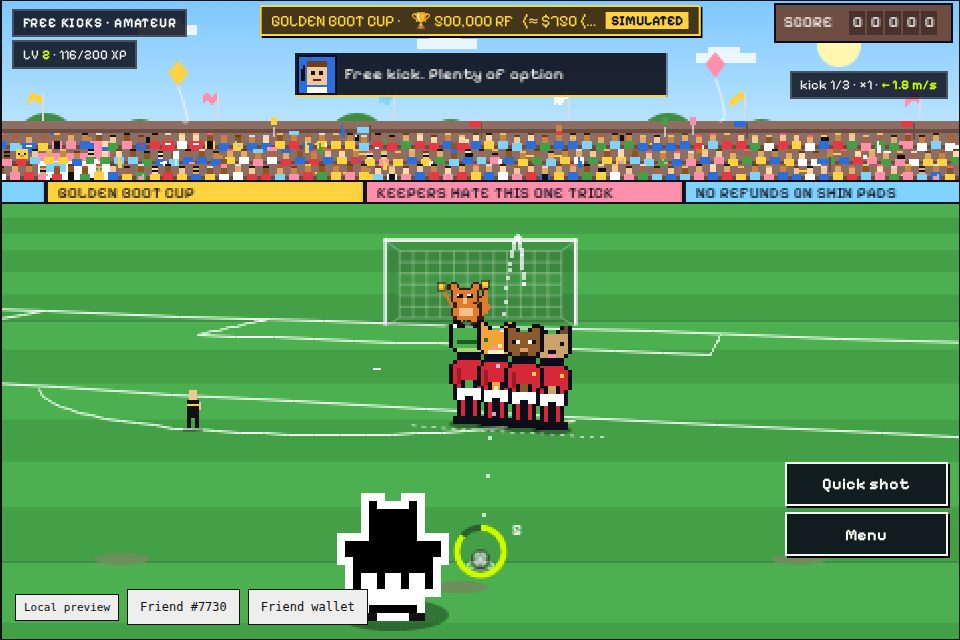
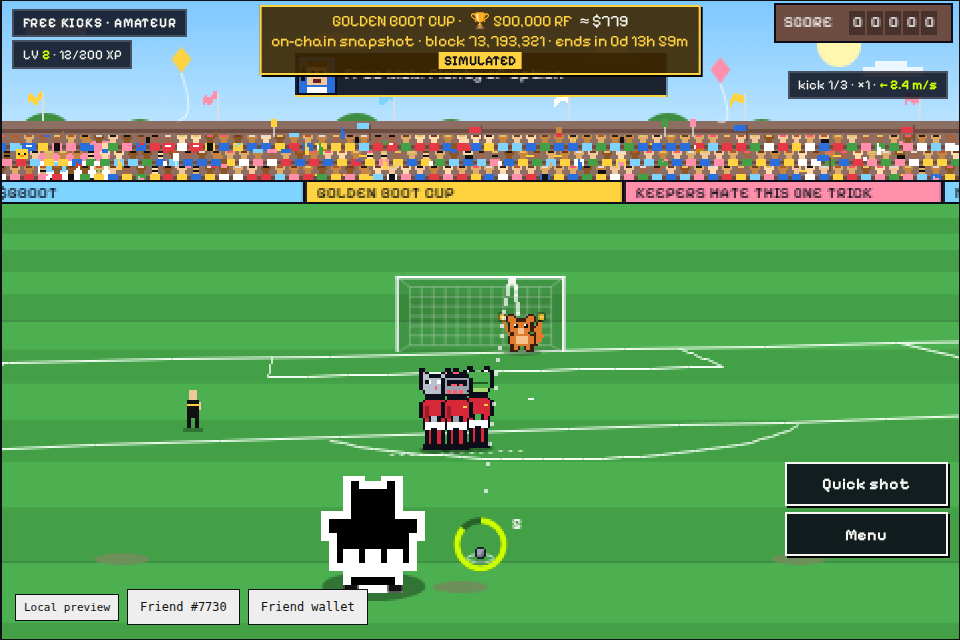
Round 6 B5 follow-up: free-kick camera 20 m back / 5 m high so the Friend reads ~60 px beside the ball (to scale with keepers) and the set piece reads further away; wall falls back to an exact non-integer scale when no whole-pixel scale fits within 6%

diff --git a/games/penalty-kings/gfx/setpieces.ts b/games/penalty-kings/gfx/setpieces.ts
@@ -13,7 +13,7 @@ import { GOAL, toScreen, CAM_FX, CAM_FY, PENALTY_CAMERA, type PitchCamera } from
 
 const FX = CAM_FX, FY = CAM_FY;
 /** Free-kick broadcast camera: 14 m behind the ball, 3.6 m up. */
-export const FK_CAMERA: PitchCamera = { back: 14, height: 3.6, horizon: 101 };
+export const FK_CAMERA: PitchCamera = { back: 20, height: 5, horizon: 101 };
 export { PENALTY_CAMERA };
 /** The penalty spot as a "setup" for the shared projection: 11 m straight out from the goal. */
 export const PENALTY_SETUP: FreeKickSetup = { distance: 11, angle: 0, wallSize: 3, wallHeight: 1.8, wallJumpAt: 0, wind: 0, seed: 0 };
@@ -136,7 +136,10 @@ export const WALL_BASE_ROWS = WALL_HEADS[0].rows.length + BODY_PROTECT.length;
 export function wallDrawScale(target: number) {
   const scale = Math.max(1, Math.floor(target / (WALL_BASE_ROWS - 3)));
   const legs = Math.max(-3, Math.min(4, Math.round(target / scale) - WALL_BASE_ROWS));
-  return { scale, legs, height: (WALL_BASE_ROWS + legs) * scale };
+  const height = (WALL_BASE_ROWS + legs) * scale;
+  if (Math.abs(height / target - 1) <= 0.06) return { scale, legs, height };
+  // No whole-pixel scale fits: draw at the exact (non-integer) scale, nearest-neighbour.
+  return { scale: target / WALL_BASE_ROWS, legs: 0, height: target };
 }
 
 /**
